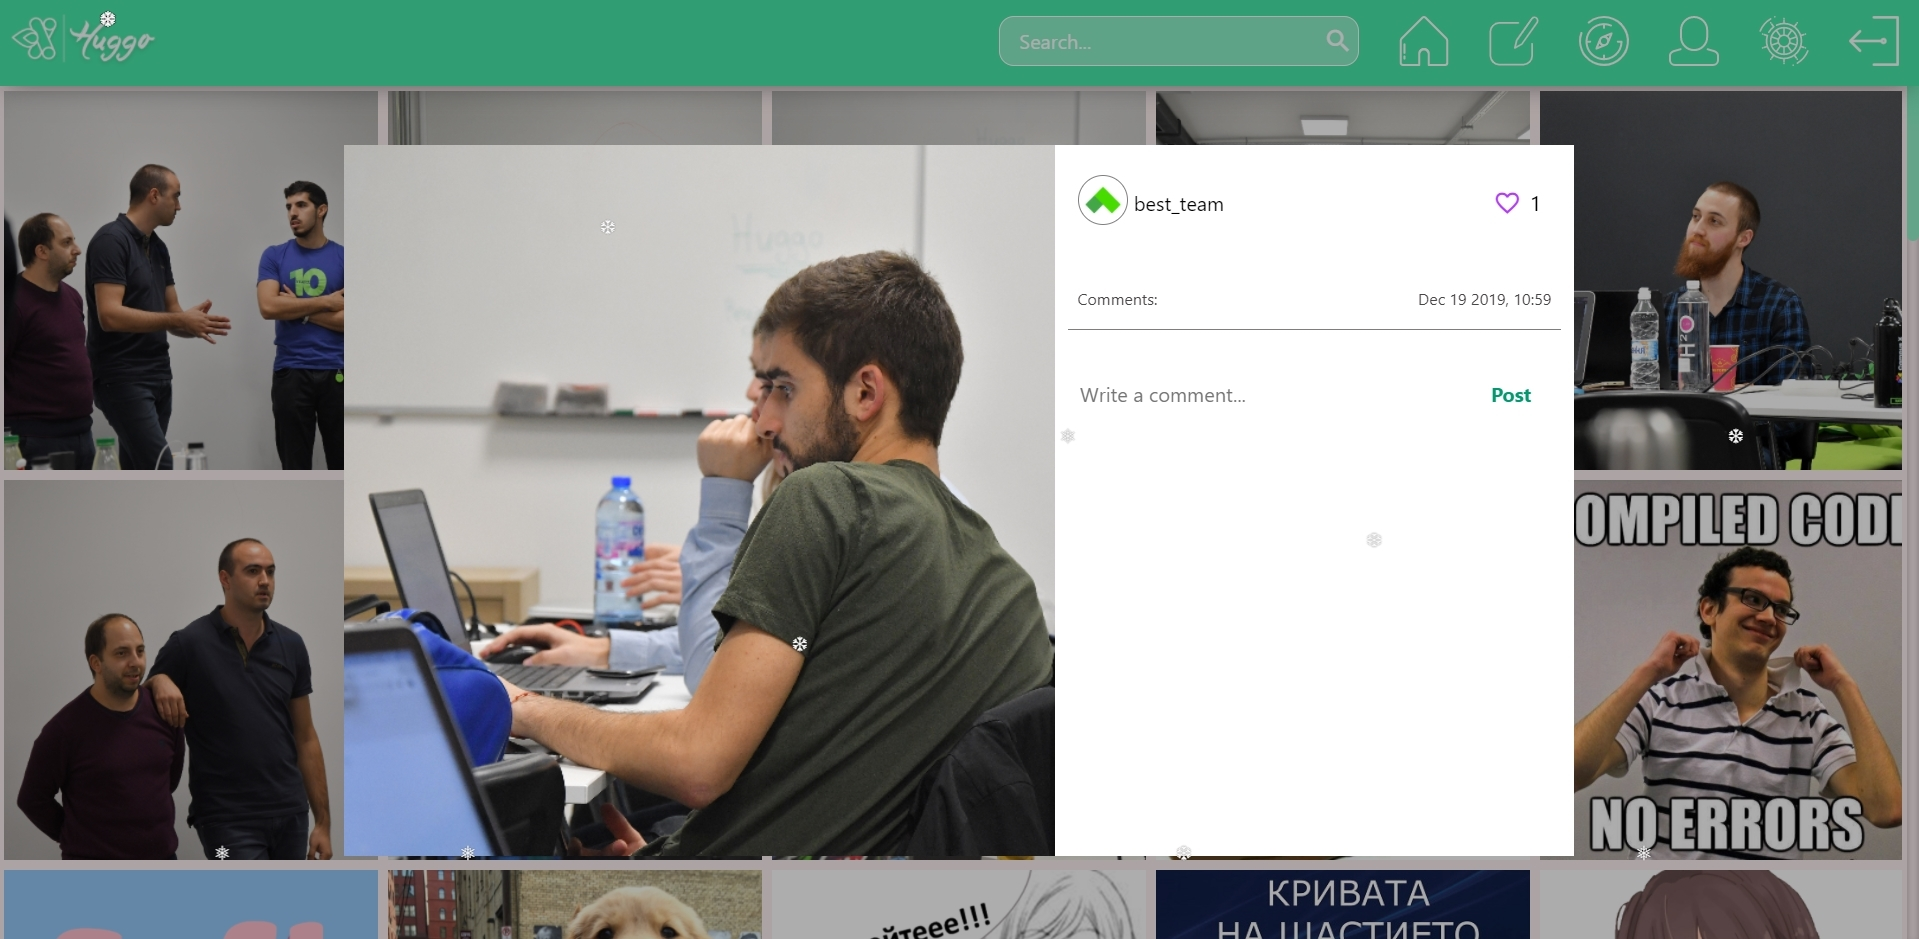
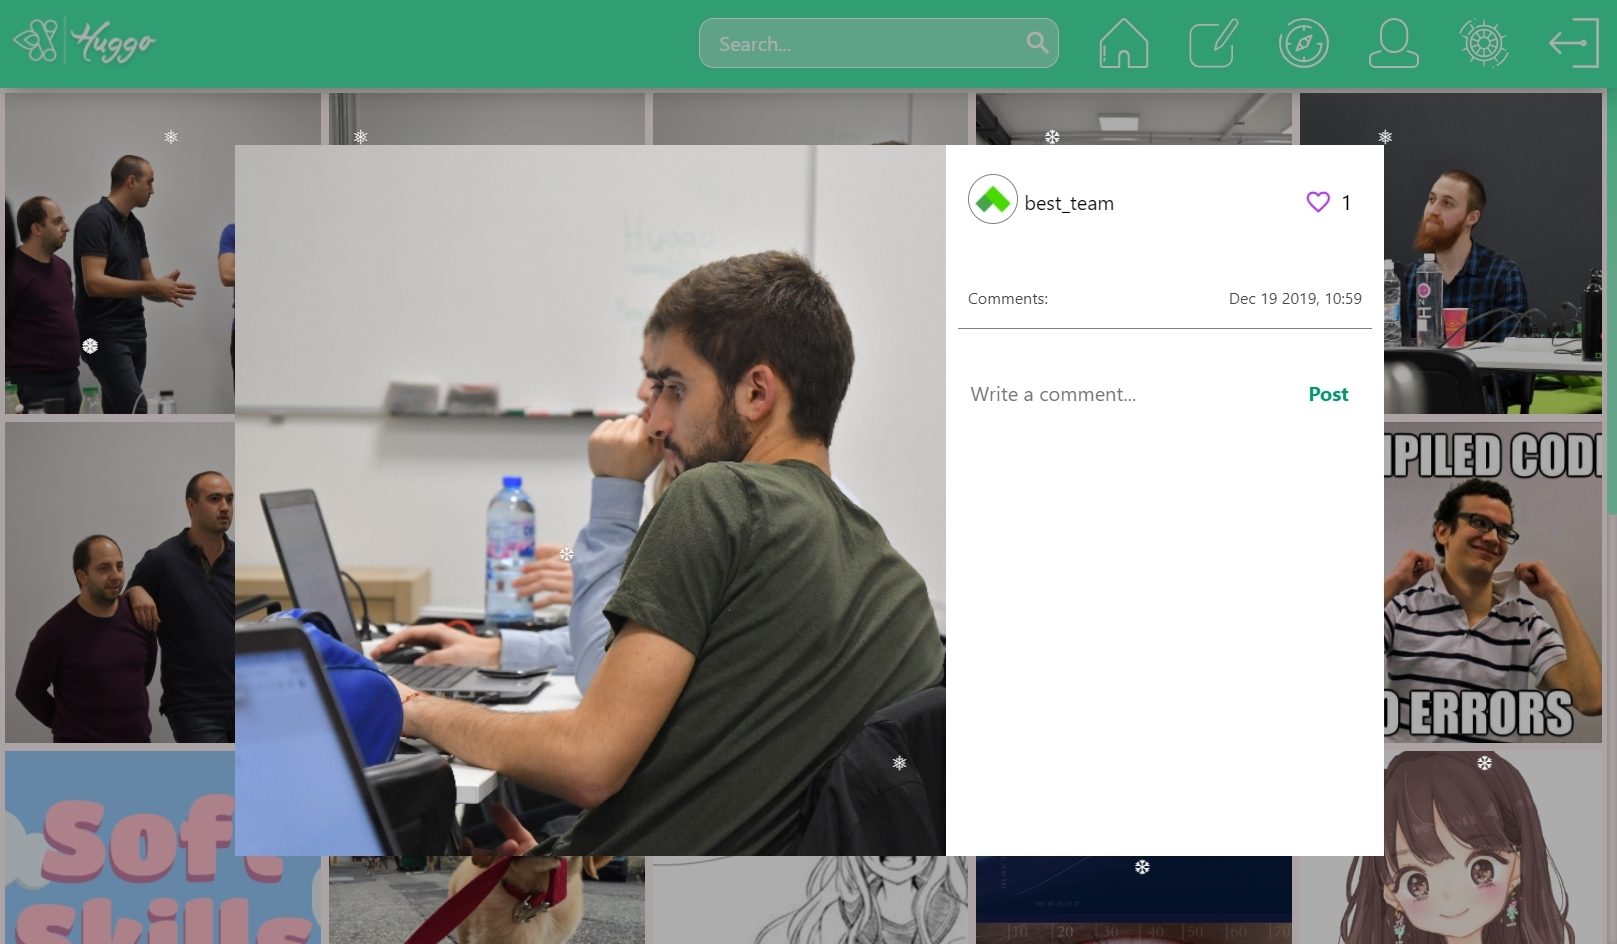
Adding project 1 gallery

diff --git a/index.html b/index.html
@@ -7,6 +7,7 @@
 	<meta charset="utf-8" />
 	<meta name="viewport" content="width=device-width, initial-scale=1, user-scalable=no" />
 	<link rel="stylesheet" href="assets/css/main.css" />
+	<link rel="stylesheet" href="assets/css/lightbox.min.css" />
 </head>
 
 <body class="is-preload">
@@ -33,38 +34,51 @@
 
 		<div class="box alt container">
 			<section class="feature left">
-				<!-- <a href="assets/css/images/project1/login_page_bigger.png"><img src="images/pic01.jpg" /></a> -->
-				<!-- <ul>
-					<li><a href="assets/css/images/project1/register_page.png"></a></li>
-					<li><a href="assets/css/images/project1/newsfeed_page.jpg"></a></li>
-					<li><a href="assets/css/images/project1/profile_page.jpg"></a></li>
-					<li><a href="assets/css/images/project1/profile_post_view.jpg"></a></li>
-					<li><a href="assets/css/images/project1/explore_page.jpg"></a></li>
-					<li><a href="assets/css/images/project1/create_page_view.png"></a></li>
-					<li><a href="assets/css/images/project1/history&logout_page.png"></a></li>
-				</ul> -->
-
-				<a href="#" class="image icon solid"><img src="images/pic01.jpg" alt="" /></a>
 				<div class="content">
 					<h3>Social Media App</h3>
 					<p>This app lets you share and enjoy happy moments with your friends and the rest of the planet.
 					</p>
 				</div>
+				<a href="assets/css/images/project1/login_page_bigger.png" class="image icon solid"
+					data-lightbox="mygallery" data-title="Login page"><img src="images/pic01.jpg" alt="" /></a>
+				<!-- <div class="gallery"> -->
+				<ul>
+					<li><a href="assets/css/images/project1/register_page.png" data-lightbox="mygallery"
+							data-title="Register page"></a></li>
+					<li><a href="assets/css/images/project1/newsfeed_page.jpg" data-lightbox="mygallery"
+							data-title="Newsfeed page"></a></li>
+					<li><a href="assets/css/images/project1/profile_page.jpg" data-lightbox="mygallery"
+							data-title="Profile page"></a></li>
+					<li><a href="assets/css/images/project1/profile_post_view.jpg" data-lightbox="mygallery"
+							data-title="Opened post on Profile page"></a>
+					</li>
+					<li><a href="assets/css/images/project1/explore_page.jpg" data-lightbox="mygallery"
+							data-title="Opened post on Explore page"></a></li>
+					<li><a href="assets/css/images/project1/create_page_fullscreen.png" data-lightbox="mygallery"
+							data-title="Create Post - Mobile Preview"></a>
+					</li>
+					<li><a href="assets/css/images/project1/history&logout_page.png" data-lightbox="mygallery"
+							data-title="Admin activity log and logout preview"></a>
+					</li>
+				</ul>
+				<!-- </div> -->
+
 			</section>
 			<section class="feature right">
-				<a href="#" class="image icon solid fa-code"><img src="images/pic02.jpg" alt="" /></a>
 				<div class="content">
 					<h3>Library System</h3>
 					<p>Here we made a system where users can browse, borrow and review the books they've borrowed.
 					</p>
 				</div>
+				<a href="#" class="image icon solid fa-code"><img src="images/pic02.jpg" alt="" /></a>
+
 			</section>
 			<section class="feature left">
-				<a href="#" class="image icon solid fa-mobile-alt"><img src="images/pic03.jpg" alt="" /></a>
 				<div class="content">
 					<h3>Giphy</h3>
 					<p>An app that let's you search and share funny gifs with your people.</p>
 				</div>
+				<a href="#" class="image icon solid fa-mobile-alt"><img src="images/pic03.jpg" alt="" /></a>
 			</section>
 		</div>
 		<!-- <footer class="major container medium">
@@ -116,6 +130,7 @@
 
 	<!-- Scripts -->
 	<script src="assets/js/jquery.min.js"></script>
+	<script src="assets/js/lightbox-plus-jquery.min.js"></script>
 	<script src="assets/js/browser.min.js"></script>
 	<script src="assets/js/breakpoints.min.js"></script>
 	<script src="assets/js/util.js"></script>
